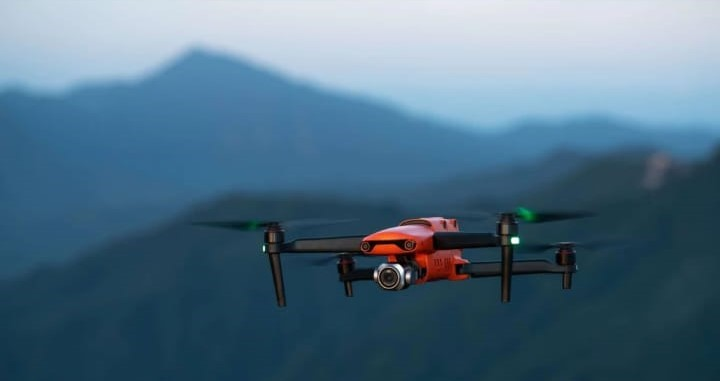
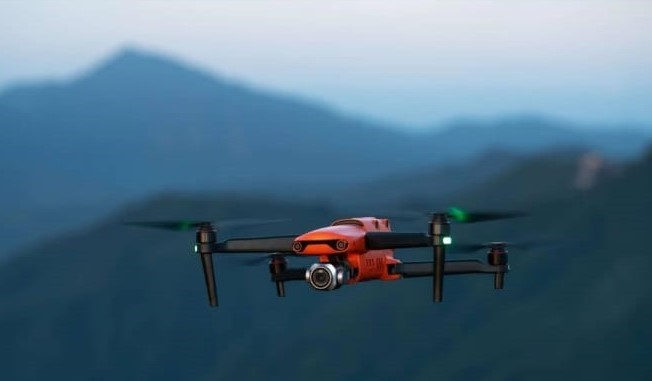
Agregando correcciones responsive

Changed region(s): [[0.0307, 0.4908, 0.7975, 0.8084], [0.0307, 0.1155, 0.6135, 0.3465], [0.6748, 0.3176, 0.7055, 0.3465]]

diff --git a/src/components/Banner/Banner.jsx b/src/components/Banner/Banner.jsx
@@ -9,9 +9,9 @@ function Banner() {
             <div className="fixed textBannerP">
                 <img src="../assets/logo.png" alt="Logo" className='Logo' />
                 <h1 className="large">GEA</h1>
-                <p className='subTextBanner'> <span>Consultores</span> 
+                <p className='subTextBanner'> <span><FormattedMessage id="banner.title" /></span> 
                     <br />
-                    en recursos hídricos SRL
+                    <FormattedMessage id="banner.subTitle" />
                 </p>
                
             </div>

diff --git a/src/components/Home/Home.jsx b/src/components/Home/Home.jsx
@@ -287,7 +287,7 @@ function Home({ setLocale, locale }) {
             <h3 className='main-sections-title '><FormattedMessage id="topography.description" /></h3>
             <div className="textFlex">
                 <div className='zoomImgContainer'>
-                    <img src="../assets/drone.jpg" className="" alt="..."/>
+                    <img src="../src/assets/drone.jpg" className="topographyImageDrone" alt="..."/>
                 </div>
                 <div>
                     <br />

diff --git a/src/components/Nav/Navbar.jsx b/src/components/Nav/Navbar.jsx
@@ -134,7 +134,7 @@ function Navbar({setLocale, locale}){
                                     <a href="#Contacto"><FormattedMessage id="nav.contact"/> </a>
                                 </li>
 
-                                <li className="menu-item">
+                                <li className="menu-item buttonNav">
                                     <LanguageButton setLocale={setLocale} locale={locale}/>
                                 </li>
 

diff --git a/src/components/Home/Home.css b/src/components/Home/Home.css
@@ -137,6 +137,11 @@
     margin-bottom: 50px;
 }
 
+.topographyImageDrone{
+    width: 100%;
+    border-radius: 20px;
+}
+
 @media (max-width:1399px) {
     .card{
         margin: 0 20px;

diff --git a/src/components/Nav/Navbar.css b/src/components/Nav/Navbar.css
@@ -375,6 +375,10 @@ ul{
 		border-bottom: none;
 	}
 
+	.buttonNav{
+		padding: 20px;
+	}
+
 
 }
 
